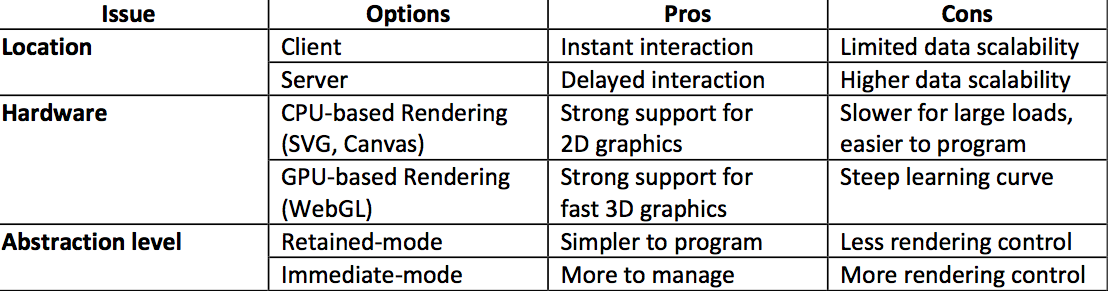
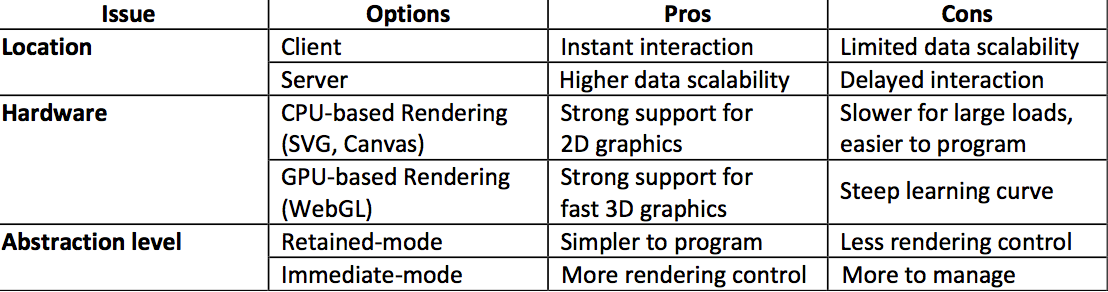
Added link to source code. Corrected procons figure

Changed region(s): [[0.491, 0.2466, 0.9819, 0.339], [0.491, 0.9247, 0.9819, 0.9863], [0.7365, 0.5856, 0.9513, 0.7089]]

diff --git a/index.html b/index.html
@@ -50,7 +50,7 @@
       <p id="title">Mobile &amp; Cloud Web-based Visualization Technologies</p>
       <p id="subtitle">
       By <a href="https://github.com/curran/portfolio">Curran Kelleher</a><br>
-      https://github.com/curran/vis2013Tutorial
+      <a style="font-size: 0.4em;" href="https://github.com/curran/vis2013Tutorial">https://github.com/curran/vis2013Tutorial</a>
       </p>
 
       <!-- The other sections are injected into this div by loadSections.js -->
